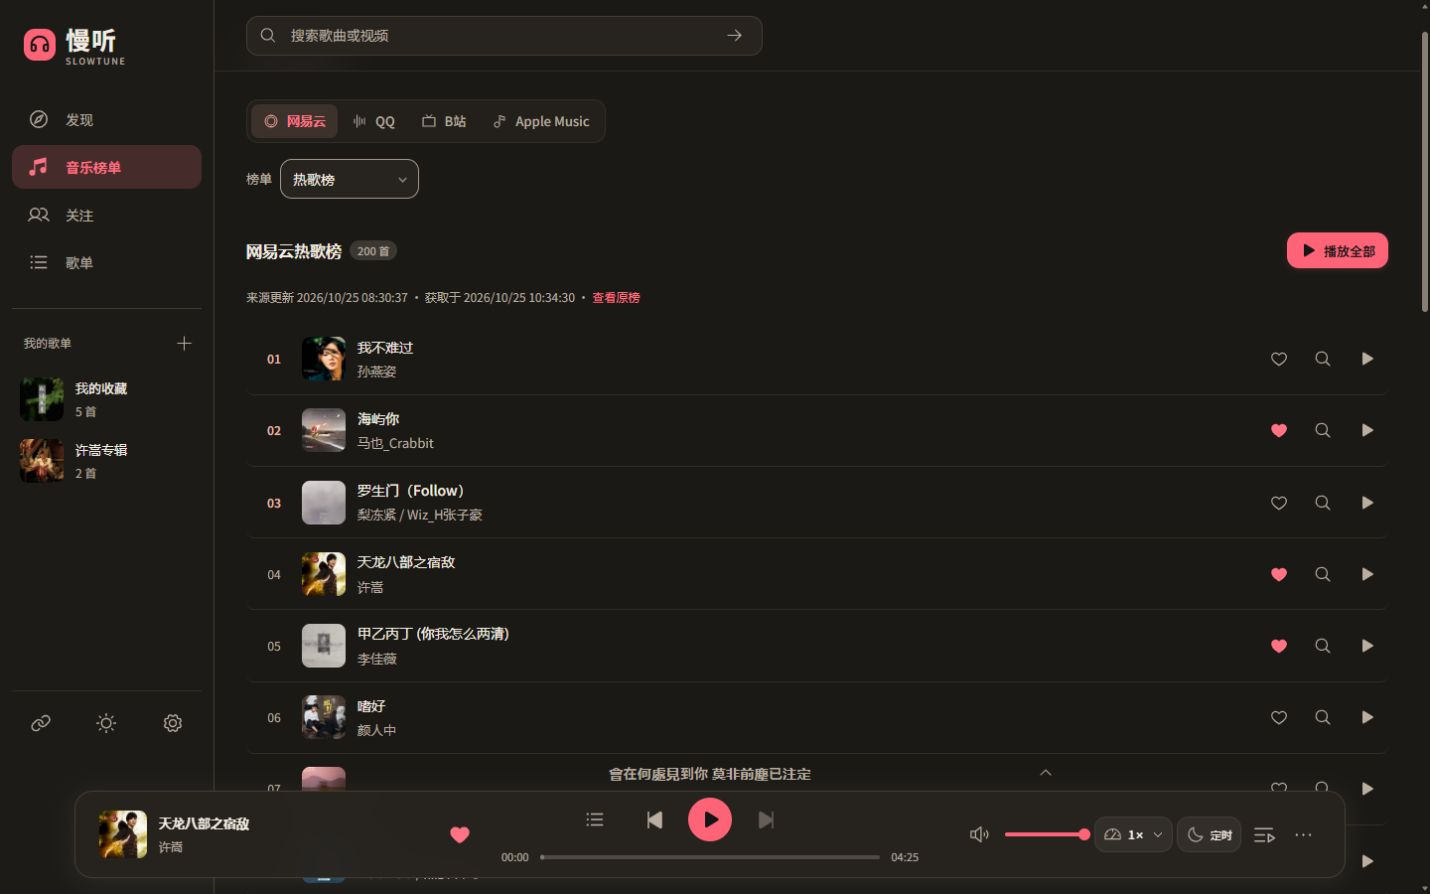
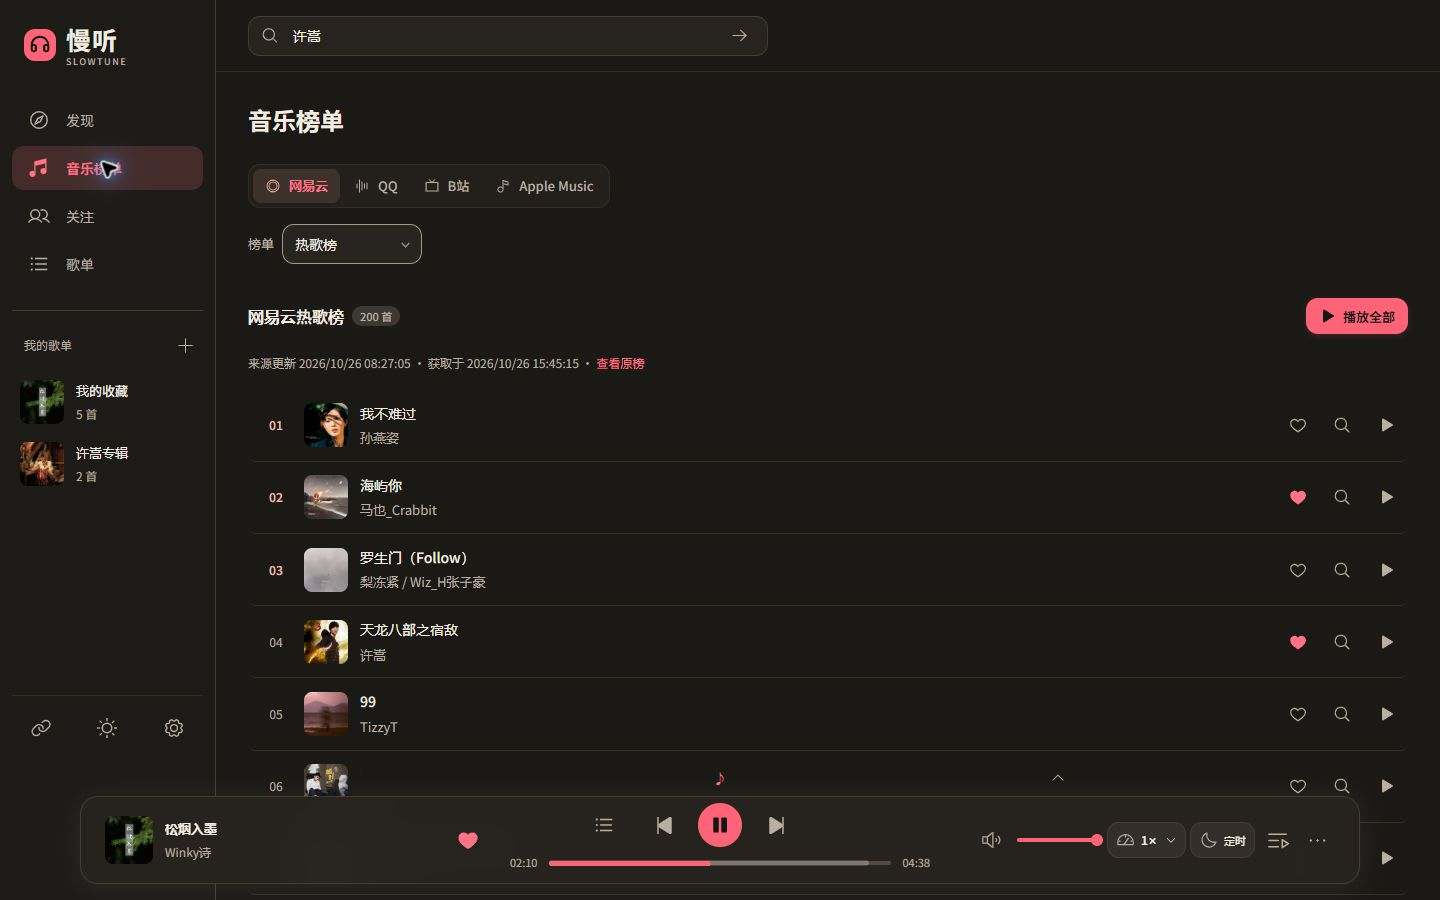
docs: 重做仓库首页并补齐真实功能截图

diff --git a/README.md b/README.md
@@ -1,96 +1,84 @@
-# 慢听 SlowTune
+<h1 align="center">慢听 SlowTune</h1>
 
-发现喜欢的音乐，留下想听的版本。
+<p align="center"><strong>发现喜欢的音乐，留下想听的版本。</strong></p>
 
-慢听是一款面向 Windows 的个人音乐播放器。搜索 B站音乐、整理自己的歌单，在唱片与歌词之间切换，让音乐陪你工作、散步或度过一个安静的夜晚。
+<p align="center">一款面向 Windows 的个人音乐播放器，支持 B站搜索、歌单整理、歌曲多版本与沉浸歌词。</p>
 
-[下载 Windows 预览版](https://github.com/xiaoxiaosu25/slowtune/releases) · [功能介绍](#功能) · [使用说明](#使用说明) · [源码启动](#源码启动) · [反馈问题](https://github.com/xiaoxiaosu25/slowtune/issues)
+<p align="center">
+  <a href="https://github.com/xiaoxiaosu25/slowtune/releases"><img alt="最新开发预览版" src="https://img.shields.io/github/v/release/xiaoxiaosu25/slowtune?include_prereleases&amp;label=preview&amp;color=a92e32"></a>
+  <a href="https://github.com/xiaoxiaosu25/slowtune/releases"><img alt="Windows x64" src="https://img.shields.io/badge/Windows-x64-365e8d"></a>
+  <a href="LICENSE"><img alt="AGPL-3.0-only" src="https://img.shields.io/badge/license-AGPL--3.0--only-60734b"></a>
+</p>
 
-![慢听实际播放许嵩《天龙八部之宿敌》：黑红唱片、B站来源、真实音质信息、歌词与播放控制](docs/images/player.jpg)
+<p align="center">
+  <a href="https://github.com/xiaoxiaosu25/slowtune/releases"><strong>下载 Windows 预览版</strong></a> ·
+  <a href="#界面预览">界面预览</a> ·
+  <a href="#功能">功能</a> ·
+  <a href="#源码启动">源码启动</a> ·
+  <a href="https://github.com/xiaoxiaosu25/slowtune/issues">反馈问题</a>
+</p>
 
-*截图取自实际运行的桌面网页，使用已有歌单、真实歌曲与平台返回的数据。独立 Windows 程序使用桌面悬浮歌词，网页中的底部歌词条有所不同；发行包功能以对应 Release 为准。*
+![慢听实际播放 Winky诗《松烟入墨》：黑红唱片、B站来源、音质信息、歌词与播放控制](docs/images/player.jpg)
 
-**当前为开发预览版。** 主要维护 Windows 桌面，部分真实设备场景仍在验证。
+<p align="center"><em>《松烟入墨》· Winky诗，真实 B站来源播放画面。</em></p>
+
+**当前为开发预览版，主要维护 Windows x64。** [下载与启动](#下载-windows-版) · [支持范围与当前限制](docs/产品/当前限制.md)
+
+## 功能
+
+| 功能 | 可以做什么 |
+| --- | --- |
+| 发现与搜索 | 浏览 B站推荐、应用内关注更新，按歌名／歌手搜索，或粘贴支持的来源链接 |
+| 多平台榜单 | 查看网易云、QQ、B站与 Apple Music 榜单，从支持的视频来源匹配播放，也可手动挑选版本 |
+| 播放展示 | 切换唱片、原始封面、方形、慢转圆形、横向音波与圆形音环，音波跟随真实音频频谱 |
+| 沉浸与悬浮歌词 | 自动匹配、手动选择、导入 LRC／文本和时间校准；Windows 独立程序支持桌面悬浮歌词 |
+| 歌单与歌曲多版本 | 收藏与自建歌单，封面、搜索、排序和重排；同一首歌可保留多个版本，设置默认版本或歌单固定版本 |
+| 队列与播放控制 | 顺序、随机、列表／单曲循环，队列重排、倍速、进度、音量与快进退 |
+| 睡眠定时 | 倒计时、自然播完 N 首或播完当前曲；结束时暂停、停止，Windows 独立程序还可退出慢听 |
+| 外观与资料 | 四套配色、明暗模式、自定义欢迎页；B站扫码登录与收藏夹关联，歌单 JSON 导入导出 |
+
+完整操作说明见[产品功能](docs/产品/产品功能.md)。YouTube 可按需启用，默认关闭，需另行配置网络与取源工具。
+
+## 界面预览
+
+主图与下方截图均取自实际运行的应用网页，使用已有正式资料、真实歌曲、封面、歌词和平台返回的榜单。桌面网页显示底部歌词条，独立 Windows 程序使用桌面悬浮歌词。点击图片可查看大图。
+
+| 沉浸歌词 | 收藏与歌单 |
+| :---: | :---: |
+| [![松烟入墨的真实沉浸歌词：唱片、同步高亮歌词和播放控制](docs/images/lyrics.jpg)](docs/images/lyrics.jpg) | [![真实收藏歌单：松烟入墨、天龙八部之宿敌等歌曲与专辑封面](docs/images/library.jpg)](docs/images/library.jpg) |
+| 唱片与歌词同屏，跟随进度阅读，也可更换歌词或校准时间。 | 收藏喜欢的歌，换封面、搜歌、排序，并管理歌曲的不同播放版本。 |
+
+| 搜索喜欢的版本 | 多平台音乐榜单 |
+| :---: | :---: |
+| [![许嵩的真实 B站搜索结果、分 P 信息与筛选说明](docs/images/search.jpg)](docs/images/search.jpg) | [![网易云热歌榜真实歌曲、歌手、封面与来源更新时间](docs/images/charts.jpg)](docs/images/charts.jpg) |
+| 保留来源结果与分 P 信息，筛选偏好可调整，听之前先挑喜欢的版本。 | 单首点播或播放整榜，收藏歌曲，也能打开搜索选择其他版本。 |
+
+| 睡眠定时 | 外观与主题 |
+| :---: | :---: |
+| [![睡眠定时器的快捷时长、自定义结束条件与结束动作](docs/images/sleep-timer.jpg)](docs/images/sleep-timer.jpg) | [![外观设置中的明暗模式与暖纸炭黑、经典薄荷、晴樱粉、珊瑚红四套配色](docs/images/appearance.jpg)](docs/images/appearance.jpg) |
+| 再听一会，或等这一首自然结束，让音乐陪你入睡。 | 选择白天、黑夜或跟随系统，搭配自己喜欢的主题色。 |
+
+## 移动网页
+
+手机浏览器连接现有服务版，可浏览“发现、音乐库、我的”，使用迷你播放器、完整播放页与直接歌词切换。返回浏览后保留原来的页面上下文。
+
+| 音乐库 | 完整播放 | 歌词阅读 |
+| :---: | :---: | :---: |
+| <a href="docs/images/mobile-library.jpg"><img src="docs/images/mobile-library.jpg" width="230" alt="移动网页真实音乐库：收藏、自建歌单与迷你播放器"></a> | <a href="docs/images/mobile-player.jpg"><img src="docs/images/mobile-player.jpg" width="230" alt="移动网页真实播放松烟入墨：唱片、歌曲版本和完整播放控制"></a> | <a href="docs/images/mobile-lyrics.jpg"><img src="docs/images/mobile-lyrics.jpg" width="230" alt="移动网页松烟入墨歌词：当前句高亮、更换歌词与校准入口"></a> |
+
+同一服务共享歌曲、歌单与收藏，队列和主题等偏好由各自浏览器保存。移动端当前为 Web 界面，连接方式见[启动与访问](docs/产品/启动与访问.md)；Android／iOS 原生客户端与独立手机运行时尚未提供。
 
 ## 下载 Windows 版
 
 1. 打开 [Releases](https://github.com/xiaoxiaosu25/slowtune/releases)，选择标记为 **Pre-release** 的版本。
-2. 下载附件中名称为 `SlowTune-<版本>-windows-x64.zip` 的程序包，完整解压到当前用户可写的目录。
-3. 双击 `SlowTune.exe`，欢迎页结束后即可进入。无需另装 Node.js。
+2. 下载 `SlowTune-<版本>-windows-x64.zip`，完整解压到当前用户可写的目录。
+3. 双击 `SlowTune.exe`，欢迎页结束后即可进入，无需另装 Node.js。
 
-请保留完整解压目录；GitHub 自动生成的 `Source code.zip` 是源码，不能直接作为程序运行。更新前退出慢听，备份并保留 `SlowTune.exe` 同级的 `data/` 文件夹。
+请保留完整解压目录。GitHub 自动生成的 `Source code.zip` 是源码，不能直接作为程序运行。
 
-当前程序未签名，没有安装器或自动更新；支持范围与设备验证情况见[当前限制](docs/产品/当前限制.md)。
+**更新与备份：** 先退出慢听，备份并保留 `SlowTune.exe` 同级的整个 `data/` 文件夹。完整解压新版本后保留自己的资料，具体方法见[运行维护](docs/运维/运行维护.md#windows-桌面运行)。
 
-## 功能
-
-| 想做什么 | 从哪里开始 |
-| --- | --- |
-| 找到想听的歌 | [推荐、搜索与多平台榜单](#从发现到播放) |
-| 专心听一首歌 | [唱片、封面与播放控制](#给每首歌一个播放舞台) |
-| 睡前让音乐自行结束 | [睡眠定时](#睡前让音乐自行结束) |
-| 看歌词、调整歌词时间 | [沉浸歌词与桌面悬浮歌词](#跟着歌词听完整首歌) |
-| 收藏不同演唱版本 | [歌单与歌曲多版本](#一首歌保留多个版本) |
-| 在手机浏览自己的音乐 | [移动网页](#在手机上继续浏览) |
-
-### 从发现到播放
-
-在发现页浏览 B站音乐推荐，也可以输入歌名、歌手或粘贴支持的来源链接。应用内关注让你集中查看喜欢的作者、合集和最近更新，不会修改平台上的关注关系。
-
-![慢听真实榜单页面：网易云热歌榜、歌曲封面与歌手、来源更新时间、收藏和搜索入口](docs/images/charts.jpg)
-
-榜单集中展示网易云热歌／新歌／飙升榜、QQ 热歌榜、B站热歌榜和 Apple Music 中国区热门歌曲。可以单首点播、播放整榜，或点击搜索入口挑选其他版本；页面保留来源、更新时间与原榜链接。
-
-榜单用于发现歌曲，实际播放会在支持的 B站、可选 YouTube 来源中匹配版本。来源不可用或版本不合适时，可以手动选择，不代表直接播放各榜单平台的音源。
-
-### 给每首歌一个播放舞台
-
-点击播放条进入完整播放页，选择黑红唱片、原始封面、方形封面、慢转圆形、横向音波或圆形音环。音波使用当前音频的实时频谱，播放页显示来源与实际可用的格式、码率等信息。
-
-播放队列支持重排、上一首／下一首、顺序、随机、列表循环与单曲循环。进度、音量、倍速、快进退集中在播放器中；浏览其他页面时，底部播放条继续控制当前音乐。
-
-### 睡前让音乐自行结束
-
-| 结束条件 | 适合什么时候 |
-| --- | --- |
-| 倒计时 | 再听一段时间，到点结束 |
-| 自然播完 N 首 | 包含当前曲剩余部分，听完几首再休息 |
-| 播完当前曲 | 保留这一首的完整结尾 |
-
-桌面定时结束动作可选择暂停或停止；独立 Windows 程序还支持退出慢听。自定义规则点击“开启定时”或“应用设置”后生效，手动切歌或直接拖到末尾不会计作自然播完一首。
-
-### 跟着歌词，听完整首歌
-
-播放后自动尝试匹配歌词，点击“词”进入完整歌词视图。桌面沉浸模式左侧保留唱片或封面，右侧跟随进度显示歌词，底部集中控制播放；Windows 独立桌面还可打开悬浮歌词，在使用其他窗口时继续看词。
-
-歌词不合适时，可以人工搜索并预览候选，或导入 LRC／文本。歌词略快或略慢时，通过时间校准提前、延后，再保存到当前播放版本。有真实逐字时间的数据按逐字呈现，普通 LRC 按整句高亮；不同编曲应选择对应歌词。
-
-### 一首歌，保留多个版本
-
-把喜欢的音乐加入收藏与歌单，为同一首歌保留录音室、现场、翻唱等不同版本。歌曲资料与播放版本分别管理，整理歌名、歌手时仍保留确切来源。
-
-- **歌曲默认版本**：平时点播这首歌时使用自己喜欢的版本。
-- **歌单固定版本**：例如日常歌单听录音室版，现场歌单保留现场版，分别选择。
-- **歌单整理**：支持封面更换、歌名／歌手搜索、排序、重排和 JSON 导入导出；导入前先预览内容。
-
-### 在手机上继续浏览
-
-移动网页使用“发现、音乐库、我的”导航，搜索有独立页面。迷你播放器可以直接播放／暂停和进入完整播放页，完整播放页可直接切换歌词；返回后继续浏览原来的歌单或搜索结果。
-
-手机需要连接已配置的服务版。同一服务共享歌曲、歌单与收藏，队列和主题等偏好由各自浏览器保存；当前没有 Android／iOS 原生客户端或独立手机运行时。连接方式见[启动与访问](docs/产品/启动与访问.md)。
-
-### 按自己的习惯使用
-
-| 能力 | 可以做什么 |
-| --- | --- |
-| 主题与外观 | 跟随系统、白天或黑夜，选择暖纸炭黑、经典薄荷、晴樱粉或珊瑚红配色 |
-| 欢迎页 | 选择内置、自定义图片或纯色，分别调整电脑和手机构图 |
-| B站账号 | 扫码登录，预览并确认本地歌单与 B站收藏夹的关联 |
-| 推荐与搜索偏好 | 设置关键词偏好、排除词与版本筛选，为自动匹配指定优先结果 |
-| 可选 YouTube | 默认关闭；配置网络和取源工具后可手动启用 |
-| 本地资料 | 独立桌面资料保存在程序旁的 `data/`，可在设置中打开资料目录 |
-
-完整操作范围见[产品功能](docs/产品/产品功能.md)，资料保存与备份见[运行维护](docs/运维/运行维护.md#windows-桌面运行)。
+当前程序未签名，没有安装器或自动更新；设备验证范围见[当前限制](docs/产品/当前限制.md)。
 
 ## 使用说明
 

diff --git a/docs/参考/素材与来源.md b/docs/参考/素材与来源.md
@@ -13,9 +13,18 @@
 
 ## 产品介绍截图
 
-[正在播放](../images/player.jpg)和[音乐榜单](../images/charts.jpg)用于 [README](../../README.md)的图文介绍，直接截取实际运行的桌面网页，不使用虚构歌曲、合成音频、演示歌词或示意封面。
+[README](../../README.md)使用下列实际运行截图。桌面网页按 1440×900、移动网页按 390×844 取图，保留已有正式资料与实际来源响应，不使用虚构歌曲、合成音频、演示歌词或示意封面。
 
-播放页展示许嵩《天龙八部之宿敌》的真实 B站播放来源、音质信息与歌词；榜单页展示网易云热歌榜返回的歌曲、封面、歌手及来源时间。保留页面实际内容，不将缓存榜单标为实时榜单，不补画封面、音质或播放状态。截图只覆盖所展示的样本，不代表全部来源、歌词动效或设备场景验收。
+| 画面 | 内容与来源 |
+| --- | --- |
+| [正在播放](../images/player.jpg)、[沉浸歌词](../images/lyrics.jpg) | Winky诗《松烟入墨》的实际 B站播放、音质信息与已匹配歌词 |
+| [收藏与歌单](../images/library.jpg) | 已有收藏中的真实歌曲、歌手与来源／目录封面 |
+| [搜索](../images/search.jpg) | 关键词“许嵩”的真实 B站视频结果、分 P 与筛选状态 |
+| [音乐榜单](../images/charts.jpg) | 网易云热歌榜返回的歌曲、封面、歌手及来源时间 |
+| [睡眠定时](../images/sleep-timer.jpg)、[外观](../images/appearance.jpg) | 实际定时设置与明暗、配色界面 |
+| [手机音乐库](../images/mobile-library.jpg)、[手机播放](../images/mobile-player.jpg)、[手机歌词](../images/mobile-lyrics.jpg) | 同一服务的移动网页、正式歌单与《松烟入墨》播放会话 |
+
+保留页面实际内容，不将缓存榜单标为实时榜单，不补画封面、歌词、音质或播放状态。截图只覆盖所展示的样本，不代表全部来源或设备场景验收。
 
 桌面网页显示底部歌词条；独立 Windows 程序使用悬浮歌词，两者界面存在差异。README 中标明截图形态，发行包以对应 Release 为准。公开图片不包含账号身份、二维码、凭据、私人路径或媒体签名地址。第三方歌曲、封面与歌词的相关权利见[第三方声明](../../第三方声明.md)，截图不作为随软件分发的曲库。更新时同步维护[公开素材清单](../../scripts/public-source.mjs)，让源码导出保留图片。
 
